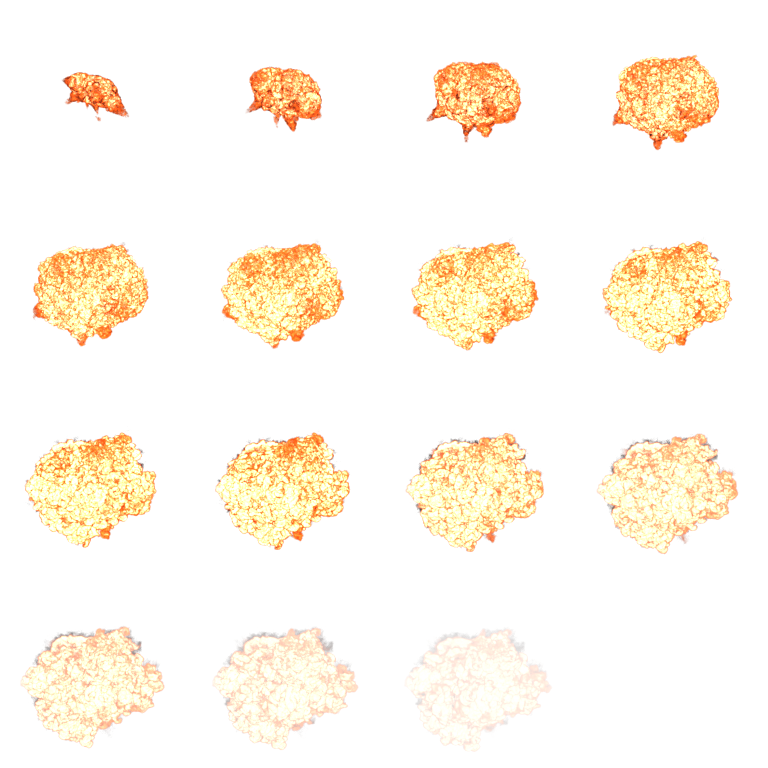
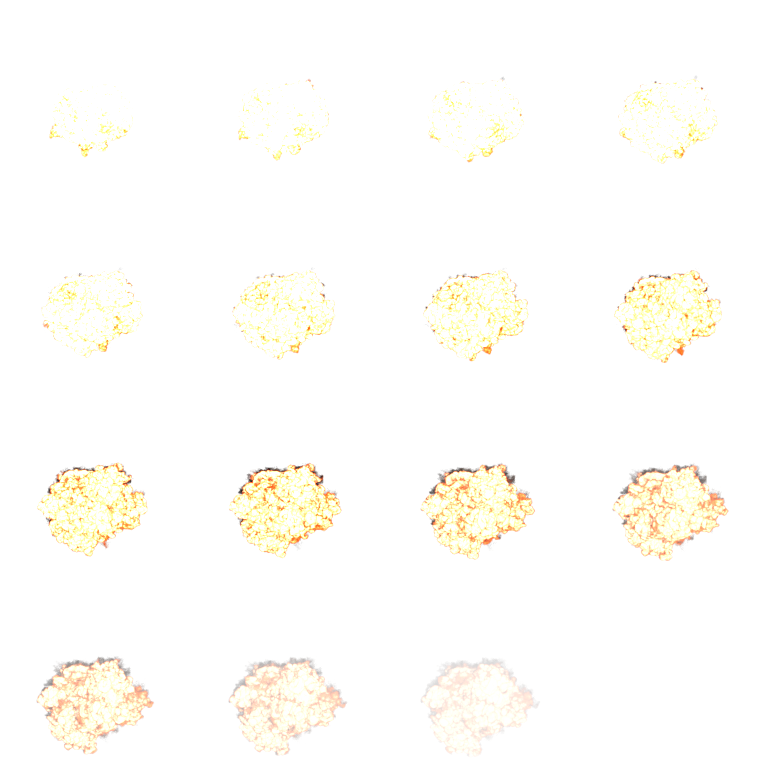
fix(art): вибух, пил і спалах — верх рухається з хмарою, кінець порожній, гарячий початок

diff --git a/tools/blender/vfx/vdb_flipbook.py b/tools/blender/vfx/vdb_flipbook.py
@@ -22,6 +22,7 @@ kind = K.get("kind", "smoke")
 dens_gain, gain, top = f("dens", 3.0), f("gain", 6.0), f("top", 1.0)
 col = tuple(float(x) for x in K.get("col", "0.35,0.35,0.35").split(","))
 _fa = K.get("frames", "0:0:1").split(":")
+heat, tau = f("heat", 0.0), f("tau", 7.0)
 a, b, st = int(_fa[0]), int(_fa[1]), float(_fa[2])
 
 files = sorted(glob.glob(vdir + "/*.vdb"), key=lambda p: int("".join(c for c in os.path.basename(p).rsplit(".", 1)[0].split("_")[-1] if c.isdigit()) or 0))
@@ -207,14 +208,14 @@ if float(K.get("bed", 0)) > 0:
     edgef.inputs["To Min"].default_value, edgef.inputs["To Max"].default_value = 1.0, 0.0
     edgef.clamp = True
     bt.links.new(rr.outputs[0], edgef.inputs["Value"])
-    heat = bt.nodes.new("ShaderNodeMath")  # noise x radial falloff = patchy hot spots
-    heat.operation = "MULTIPLY"
-    bt.links.new(bn.outputs["Fac"], heat.inputs[0])
-    bt.links.new(edgef.outputs["Result"], heat.inputs[1])
+    bheat = bt.nodes.new("ShaderNodeMath")  # noise x radial falloff = patchy hot spots
+    bheat.operation = "MULTIPLY"
+    bt.links.new(bn.outputs["Fac"], bheat.inputs[0])
+    bt.links.new(edgef.outputs["Result"], bheat.inputs[1])
     hs = bt.nodes.new("ShaderNodeMapRange")
     hs.inputs["From Min"].default_value, hs.inputs["From Max"].default_value = 0.05, 0.7
     hs.clamp = True
-    bt.links.new(heat.outputs[0], hs.inputs["Value"])
+    bt.links.new(bheat.outputs[0], hs.inputs["Value"])
     rmp = bt.nodes.new("ShaderNodeValToRGB")
     c2 = rmp.color_ramp
     c2.elements[0].position, c2.elements[0].color = 0.0, (*hexc("#4A1204"), 1)
@@ -332,6 +333,10 @@ for i, p in enumerate(sel):
     sc.frame_set(idx + 1)
     if bed_w is not None:
         bed_w.default_value = i * 0.3
+    if heat and kind == "fire" and fgrid:  # the first frames burn hottest: whiter core, then it cools
+        e = math.exp(-i / tau)
+        sc_.inputs[1].default_value = f("ramp", 1.0) * (1 + 1.6 * heat * e)
+        gm.inputs[1].default_value = gain * (1 + 2.0 * heat * e)
     sc.render.filepath = os.path.join(outdir, name, "f_%03d.png" % i)
     bpy.ops.render.render(write_still=True)
     print("rendered", i, idx)

diff --git a/tools/blender/vfx/assemble.py b/tools/blender/vfx/assemble.py
@@ -19,10 +19,10 @@ ATLAS = {
                               lab=(35, 45), tgt_L=40, amax=0.35, ab=((-1, 2), (-3, 4))),
     "wreck_fire": dict(src="wreck_fire", kind="loop", n=64, cols=16, rows=4, fps=8, bonfire=1, raw=1, m=2.93, sway=0.05,
                             lab=None),
-    "explosion": dict(src="explosion", kind="once", topramp=(0.06, 0.30), n=64, cols=8, rows=8, fps=48, m=22.4, lab=None),
-    "dirt_burst": dict(src="dirt_burst", kind="once", n=64, cols=8, rows=8, fps=40, m=13.7, desat=0.65,
+    "explosion": dict(src="explosion", kind="once", tail=12, n=64, cols=8, rows=8, fps=48, m=32.2, lab=None),
+    "dirt_burst": dict(src="dirt_burst", kind="once", tail=12, n=64, cols=8, rows=8, fps=40, m=18.8, desat=0.65,
                        lab=(28, 38), tgt_L=33, ab=((2, 4), (6, 10))),
-    "impact_flash": dict(src="flash", kind="once", tail=6, topramp=(0.06, 0.26), n=16, cols=4, rows=4, fps=60, m=6.7, lab=None),
+    "impact_flash": dict(src="flash", kind="once", tail=6, n=16, cols=4, rows=4, fps=60, m=8.9, lab=None),
 }
 GRASS = np.array([92, 104, 70], np.float32) / 255  # muted late-autumn grass, L* ~ 41
 CM_PX = (7, 22)  # closest / farthest zoom, cm per screen pixel

diff --git a/assets/vfx/SOURCES.md b/assets/vfx/SOURCES.md
@@ -13,7 +13,7 @@ Domain) so you are free to use them however you want!". Each archive also carrie
 
 | pack (as listed on the page) | size / frames | used for |
 | --- | --- | --- |
-| Ground Explosion (`GroundExplosionVDB.zip`) | 661 MB, 200 frames, channels density + flames | `explosion.png` (frames 6–132 step 2), `smoke_column.png` / `smoke_column_thin.png` (smoke only, frames 66–129), `dirt_burst.png` (smoke only, brown albedo, frames 4–130 step 2), `impact_flash.png` (frames 4–34 step 2, small scale) |
+| Ground Explosion (`GroundExplosionVDB.zip`) | 661 MB, 200 frames, channels density + flames | `explosion.png` (frames 10–136 step 2, hottest in the first frames, fades to empty over the last 12), `smoke_column.png` / `smoke_column_thin.png` (smoke only, frames 66–129), `dirt_burst.png` (smoke only, brown albedo, frames 20–146 step 2, fades to empty over the last 12), `impact_flash.png` (frames 10–40 step 2, small scale) |
 | Small Camp Fire (`SmallCampfireVDB.zip`) | 59 MB, 200 frames, channels density + flames | `wreck_fire.png` (frames 0–192 at step 1.5, cross-faded into a 64-frame loop) |
 
 Every other pack on the page (Aerial Explosion, Tornado Looping, Fire Plume, Cloud Pack, Grenade Dust Impact,
@@ -34,9 +34,9 @@ pitch). The VDB files themselves are not in the repository.
 | `smoke_column.png` | rolling dark smoke, plays once and ends empty (loops without a seam) | 64, 8×8 × 192 px, 4 fps, cell ≈ 22 m (the cloud fills ≈ 19 m, scale the quad) | Ground Explosion VDB |
 | `smoke_column_thin.png` | the same, lighter and thinner (peak alpha 0.35) for the thinning stages | 64, 8×8 × 192 px, 4 fps | Ground Explosion VDB |
 | `wreck_fire.png` | tall flame rising from the cell bottom, the sim's own emission kept (licks and darker gaps inside): pale yellow-white hot base, yellow-orange middle, orange-red translucent edges and tips, thin dark-grey smoke wisps above; seamless loop | 64, 16×4 × 128×256 px (2048×1024), 8 fps, cell width ≈ 2.9 m (flame ≈ 1.5 m wide, 3.2 m tall), base at the bottom centre, 6% above the cell bottom | Small Camp Fire VDB (vertical stretch 3.6) |
-| `explosion.png` | fireball then dark smoke, one-shot | 64, 8×8 × 192 px, 48 fps, cell ≈ 22 m | Ground Explosion VDB |
-| `dirt_burst.png` | brown earth and dust cloud, no fire, one-shot | 64, 8×8 × 192 px, 40 fps, cell ≈ 13.7 m | Ground Explosion VDB (density only, brown albedo) |
-| `impact_flash.png` | muzzle / impact flash into a small fireball, ends empty | 16, 4×4 × 192 px, 60 fps, cell ≈ 6.7 m | Ground Explosion VDB (early frames) |
+| `explosion.png` | fireball then dark smoke, one-shot | 64, 8×8 × 192 px, 48 fps, cell ≈ 32 m | Ground Explosion VDB |
+| `dirt_burst.png` | brown earth and dust cloud, no fire, one-shot | 64, 8×8 × 192 px, 40 fps, cell ≈ 18.8 m | Ground Explosion VDB (density only, brown albedo) |
+| `impact_flash.png` | muzzle / impact flash into a small fireball, ends empty | 16, 4×4 × 192 px, 60 fps, cell ≈ 8.9 m | Ground Explosion VDB (early frames) |
 | `armour_sparks.png` | 4×2 sheet of 7 spark streaks (8th cell empty), tinted `#FFE6B0` with a white-hot core | 8 cells × 256 px | Kenney Particle Pack 1.1, `PNG (Transparent)/trace_01…trace_07.png`, resized 512→256 and tinted; <https://kenney.nl/assets/particle-pack>; CC0 1.0 (`License.txt` in the pack) |
[1 lines of base64/hex data omitted]
 
